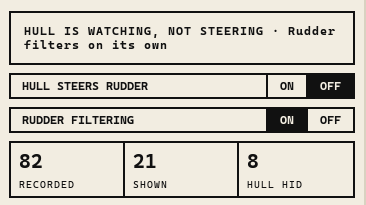
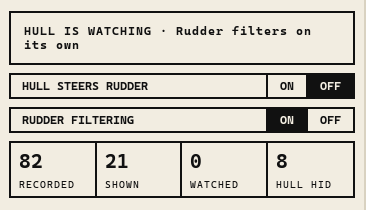
Plain wording: say what things are, without 'X, not Y' contrasts, in the README, guide, app, panel, prompts and comments

diff --git a/hull/stages/culture.py b/hull/stages/culture.py
@@ -4,7 +4,7 @@ culture graph (hull/graph.py). A video is tagged once; after that it's answered 
 Gemma runs in Ollama with the title, channel, description, Rudder's thumbnail text and the thumbnail itself, plus
 the known topics nearest the video, so it reuses the graph's names. A video you watch is tagged again once enough of
 it has been said (`heard_chars` of its captions): its title and what's said in it, so watched videos are mapped by
-their content, not just how they're sold (table watched). Videos not tagged within `budget` seconds are
+their content (table watched). Videos not tagged within `budget` seconds are
 hidden for now (strict) and keep being tagged; Rudder asks again the next time YouTube sends them.
 
 Then your map decides (hull/graph.py). Each goal covers an area of the map: the goal's topics, topics that mean the
@@ -49,7 +49,7 @@ GOAL_SCHEMA = {"type": "object", "properties": {
     "focus": {"type": "array", "items": {"type": "string"}, "maxItems": 30},
     "block": {"type": "array", "items": {"type": "string"}, "maxItems": 30}}, "required": ["focus", "block"]}
 GOAL = """A viewer says what they want YouTube for. Turn it into the topics of their filter, the way someone who knows the subject well would.
-- focus: only if they want nothing but certain subjects (they say "only", "just", "nothing else"); otherwise empty, since liking something is not wanting only it. When they do, list each subject broadly: the field itself, its main kinds and parts, the communities and people around it, and every topic on their map below that belongs to it. For someone who only wants cooking, that means cooking, recipes, baking, specific dishes and cuisines, chefs and cooking channels, food science.
+- focus: only if they want nothing but certain subjects (they say "only", "just", "nothing else"); otherwise leave it empty. When they do, list each subject broadly: the field itself, its main kinds and parts, the communities and people around it, and every topic on their map below that belongs to it. For someone who only wants cooking, that means cooking, recipes, baking, specific dishes and cuisines, chefs and cooking channels, food science.
 - block: subjects they never want to see, each listed just as broadly.
 Short lowercase noun phrases. Use their map's topics word for word where they fit, and add the subject's other important parts even if their map doesn't have them yet.
 
@@ -57,7 +57,7 @@ Their map (most seen first): {known}
 
 The viewer: {text}"""
 PROMPT = """Name this YouTube video's topics: 3 to 6 short lowercase noun phrases, from the most specific (the exact subject: the game, show, person, technique or idea) up to its broad field (such as "video games", "statistics", "cooking", "music").
-Name subjects, not formats: in "100 days in Los Santos" the subject is the game Los Santos belongs to (grand theft auto v), not "100 days challenge". Name the franchise or field a place, character or term belongs to. Use the thumbnail too.
+Name the subject itself: in "100 days in Los Santos" the subject is grand theft auto v, the game Los Santos belongs to. Name the franchise or field a place, character or term belongs to. Use the thumbnail too.
 Topics already on this viewer's map, to reuse word for word when one fits: {known}
 
 Title: {title}

diff --git a/tests/test_hull.py b/tests/test_hull.py
@@ -333,7 +333,7 @@ class TestHullWithRudder(unittest.IsolatedAsyncioTestCase):
             await until(lambda: not hull.status["steering"])
             self.assertNotIn("hull-rules", [s.id for s in fake.stages])
             self.assertEqual((hull.status["rudder"], Settings(tmp).get("steering")), (True, False))
-            await until(lambda: "not steering" in fake.panels[-1].blocks[0].text)
+            await until(lambda: "watching" in fake.panels[-1].blocks[0].text)
             hull.set_filtering(False)  # Rudder's own switch
             await until(lambda: not hull.status["filtering"])
             self.assertFalse(fake.enabled)
@@ -407,7 +407,7 @@ class TestCaptions(unittest.TestCase):
             self.assertIsNone(c.heard("b", "today we update our beliefs"))  # not enough said yet
             c.heard("b", "with the likelihood and a prior").result()
             self.assertIn("update our beliefs with the likelihood", c.ollama.heard_prompt)
-            self.assertEqual(c.graph.topics_of("b"), ["bayes theorem", "statistics", "probability theory"])  # added, not doubled
+            self.assertEqual(c.graph.topics_of("b"), ["bayes theorem", "statistics", "probability theory"])  # each once
             self.assertEqual(dict(c.graph.stats()["top"])["bayes theorem"], 1)
             n = c.ollama.calls
             c.heard("b", "more and more words, and many more of them")

diff --git a/hull/app.py b/hull/app.py
@@ -130,7 +130,7 @@ class Banner(QLabel):
         elif s["steering"]:
             text, bg, fg = "HULL IS STEERING RUDDER · your goal and culture map decide what YouTube shows", BLUE, INK
         else:
-            text, bg, fg = "HULL IS WATCHING, NOT STEERING · Rudder filters on its own", PAPER, INK
+            text, bg, fg = "HULL IS WATCHING · Rudder filters on its own", PAPER, INK
         if s.get("warming"):
             text += " · loading Gemma…"
         self.setText(text)
@@ -436,7 +436,7 @@ class Window(QMainWindow):
         self.steer.show_state(s["steering"] if connected else self.hull.steering, connected)
         self.filtering.show_state(s["filtering"], connected)
         self.tray.setIcon(QIcon(str(ASSETS / ("hull-icon.svg" if s["steering"] else "hull-icon-off.svg"))))
-        self.tray.setToolTip("Hull: steering Rudder" if s["steering"] else "Hull: not steering")
+        self.tray.setToolTip("Hull: steering Rudder" if s["steering"] else "Hull: watching while Rudder filters on its own")
         if hasattr(self, "steer_action"):  # the tray menu's switch
             self.steer_action.setChecked(self.hull.steering)
 

diff --git a/hull/link.py b/hull/link.py
@@ -152,7 +152,7 @@ class Hull:
         keep = [s for s in p.stages if not ours(s)]
         if len(keep) != len(p.stages):
             p = await rudder.SetPipeline(pb.Pipeline(stages=keep), timeout=timeout)  # none left: Rudder's default
-            log.info("not steering: %s", " → ".join(s.id for s in p.stages))
+            log.info("Rudder filters on its own: %s", " → ".join(s.id for s in p.stages))
 
     async def leave(self):
         """take Hull's stages and panel back out of Rudder (on exit)"""
@@ -220,7 +220,7 @@ class Hull:
     def panel_message(self):
         s = self.store.stats()
         goal = self.settings.get("goal") if self.settings else None
-        head = ("Hull is steering Rudder" if self.steering else "Hull is running but not steering: Rudder filters on its own") + \
+        head = ("Hull is steering Rudder" if self.steering else "Hull is watching: Rudder filters on its own") + \
                (f". Goal: {goal['text']}" if goal and goal.get("text") and self.steering else "")
         return pb.Panel(id=APP, title="Hull", blocks=[
             pb.Block(text=head),

diff --git a/hull/lsh.py b/hull/lsh.py
@@ -2,10 +2,10 @@
 get the same key in at least one band, so only those few are compared exactly.
 
   - Titles: MinHash over a title's words. 16 bands of 4 hashes catch title pairs whose words overlap by about half
-    or more; the exact check then asks for `title_jaccard` (default 0.8): a re-upload, not the next episode
-    ("ep 12" vs "ep 13" share 3 of 5 words, 0.6).
+    or more; the exact check then asks for `title_jaccard` (default 0.8): a re-upload. The next episode
+    ("ep 12" vs "ep 13") shares 3 of 5 words, 0.6, and stays a video of its own.
   - Thumbnails: dHash, 256 bits of light-to-dark steps in a 17x16 grey copy, unchanged by resizing and
-    recompression; fine enough that a channel's template with another face or text isn't a copy. 16 bands of 16
+    recompression; fine enough to tell a channel's template with another face or text apart from a copy. 16 bands of 16
     bits: two hashes within 15 bits always share a band; the exact check asks for `thumb_bits` (default 12).
 """
 import hashlib, io, re

diff --git a/hull/graph.py b/hull/graph.py
@@ -101,7 +101,7 @@ class Graph:
 
     def area(self, anchor_vecs, at=0.85, link=0.5, hops=1):
         """the part of the map around some topics: the topics themselves and their near-synonyms (cosine ≥ at: "비디오
-        게임" for "video games", not "video media", which only shares a word), then, up to
+        게임" for "video games"), then, up to
         `hops` edges out, every neighbour most of whose videos (share ≥ link) are already inside. A topic that mostly
         lives there joins (roblox, frostpunk around video games); a big separate subject that touched it once doesn't
         (music, through a game's soundtrack), so the area can't leak across the map."""

diff --git a/hull/video.py b/hull/video.py
@@ -35,4 +35,4 @@ class Result:
 
     def __post_init__(self):
         if self.decision not in DECISIONS:
-            raise ValueError(f"decision must be one of {DECISIONS}, not {self.decision!r}")
+            raise ValueError(f"decision {self.decision!r} isn't one of {DECISIONS}")

diff --git a/docs/how-it-works.md b/docs/how-it-works.md
@@ -8,7 +8,7 @@ Rudder, a Firefox extension, reads every recommendation before it's shown and ru
 
 - **No repeats.** A video Rudder has put on screen once never comes back, and neither does a re-upload of it.
 - **A culture graph.** Gemma names every video's topics, from its exact subject up to its field. Topics become nodes, and topics that share videos get linked.
-- **Block and focus by meaning, not keywords.** `block = ["grand theft auto"]` also hides Los Santos and Michael De Santa. `focus = ["bayesian statistics"]` turns YouTube into a study feed: only videos near that topic in the graph get through. Gemma settles the borderline cases using the graph.
+- **Block and focus by meaning.** `block = ["grand theft auto"]` also hides Los Santos and Michael De Santa. `focus = ["bayesian statistics"]` turns YouTube into a study feed: only videos near that topic in the graph get through. Gemma settles the borderline cases using the graph.
 
 ```
 YouTube ─▶ Rudder (Firefox) ─▶ Rudder's bridge (127.0.0.1:7833) ◀─▶ Hull ─▶ Ollama (Gemma, on your GPU)
@@ -41,7 +41,7 @@ Hull opens its window, loads the models, joins Rudder's pipeline right after Rud
 
 - **The banner** says what Hull is doing, first thing:
   - blue, *Hull is steering Rudder*: Hull's stages are in Rudder's pipeline;
-  - paper, *Watching, not steering*: Rudder filters on its own, and Hull keeps recording;
+  - paper, *Hull is watching*: Rudder filters on its own, and Hull keeps recording;
   - striped, *Rudder isn't running*: start Rudder's bridge and Firefox.
 - **Two switches.**
   - *Hull steers Rudder* puts Hull's stages into Rudder's pipeline or takes them out.
@@ -94,7 +94,7 @@ Editing a stage's config, or applying a goal, makes Rudder judge again the video
 
 **Repeats.** Rudder reports every video it puts on screen (`WatchShown`). Hull adds each id to a Bloom filter: about 1.8 MB holds a million videos, with a 0.1% chance of calling a new video a repeat. That is the strict side to err on. The filter can't catch a re-upload under a new id, so shown videos' titles and thumbnails also go into two locality-sensitive hash indexes:
 - **Titles:** MinHash over the title's words. A copy shares at least 80% of its words, so "ep 12" and "ep 13" are different videos.
-- **Thumbnails:** a 256-bit dHash. A copy differs by at most 12 bits, which survives resizing and recompression but not a new face on the same template.
+- **Thumbnails:** a 256-bit dHash. A copy differs by at most 12 bits, which survives resizing and recompression; a new face on the same template counts as a different thumbnail.
 
 Hull's stages ask Rudder to ask again every time YouTube sends a video (`remember: false`). Without that, Rudder would reuse Hull's first answer forever and a repeat would never be caught.
 
@@ -105,17 +105,17 @@ Hull's stages ask Rudder to ask again every time YouTube sends a video (`remembe
 
 It names 3 to 6 topics, from the subject up to the field. For example, "I spent 100 days in Los Santos" becomes *los santos → grand theft auto v → video games*. Every name is embedded with `embeddinggemma`, and names within 0.94 cosine of a known topic merge into it ("gta" is "grand theft auto"). A video is tagged once. A batch of 12 takes about 4 seconds, well inside Rudder's 25-second limit. Videos not tagged in time stay hidden and are asked about again the next time they come.
 
-**What you watch.** Rudder asks YouTube's player for English captions on every video you watch and streams each line to Hull as you reach it (`WatchCaptions`). Hull keeps them (table `captions`). Once about 600 characters have been said, Gemma tags the video again from its title and what's said in it, and those topics join your map. A watched video is mapped by its content, not just how it's sold, and the topic details mark it ▶. Captions stay hidden on the video unless you press CC or C.
+**What you watch.** Rudder asks YouTube's player for English captions on every video you watch and streams each line to Hull as you reach it (`WatchCaptions`). Hull keeps them (table `captions`). Once about 600 characters have been said, Gemma tags the video again from its title and what's said in it, and those topics join your map. A watched video is mapped by its content, and the topic details mark it ▶. Captions stay hidden on the video unless you press CC or C.
 
 **Block and focus: areas of your map.** A goal covers an area of your culture map:
-1. its topics, and near-synonyms of them (cosine ≥ `area_seed`, 0.85: "비디오 게임" for "video games", not "video media");
+1. its topics, and near-synonyms of them (cosine ≥ `area_seed`, 0.85: "비디오 게임" for "video games");
 2. then, one edge out (`focus_hops` / `block_hops`), each neighbour where at least half its videos (`focus_link` / `block_link`) are already in the area.
 
-A topic that mostly lives around your goal joins it: around "video games", Roblox, Frostpunk and League of Legends join. A big separate subject that touched it once doesn't: music only shares a game soundtrack, 1 of its 25 videos. A video with a topic in the block area is hidden. With a focus, a video with a topic in the focus area is shown.
+A topic that mostly lives around your goal joins it: around "video games", Roblox, Frostpunk and League of Legends join. A big separate subject that touched it once stays out: music only shares a game soundtrack, 1 of its 25 videos. A video with a topic in the block area is hidden. With a focus, a video with a topic in the focus area is shown.
 
-The goal box makes the area wide from the start: Gemma sees your whole map and lists the subject the way someone who knows it would, with the field, its parts and the topics on your map that belong. A gamer's goal becomes video games, gaming culture, esports, walkthroughs, PC gaming and so on, not just "video games".
+The goal box makes the area wide from the start: Gemma sees your whole map and lists the subject the way someone who knows it would, with the field, its parts and the topics on your map that belong. A gamer's goal becomes video games, gaming culture, esports, walkthroughs, PC gaming and so on.
 
-Topics outside every area (new ones, not linked yet) are judged by meaning. How near a video is to a topic is the best of its topics' relatedness to it. Relatedness is the larger of:
+Topics outside every area (new ones without links yet) are judged by meaning. How near a video is to a topic is the best of its topics' relatedness to it. Relatedness is the larger of:
 - how alike the two topics' meanings are;
 - the same, through a neighbour: the share of this topic's videos that are also on a neighbour topic, times how alike that neighbour is.
 

diff --git a/README.md b/README.md
@@ -10,11 +10,11 @@ Solution: Hull is the ship under the Rudder. It runs on your own computer, and n
 
 <p align="center"><img src="docs/goal.png" alt="Your goal in plain words, turned into topics by Gemma" width="366"></p>
 
-Then you tell Hull what you want, in your own words: "I'm learning Bayesian statistics. Nothing else." Gemma turns that into places on your map, and you can change them before you press Apply. Hull lets through the videos near those places and hides the rest, even the ones you never thought to block. And it never shows you the same video twice, not even a copy uploaded under a new name.
+Then you tell Hull what you want, in your own words: "I'm learning Bayesian statistics. Nothing else." Gemma turns that into places on your map, and you can change them before you press Apply. Hull lets through the videos near those places and hides the rest, even the ones you never thought to block. And it shows you each video only once, copies uploaded under a new name included.
 
-Hull also listens. When you watch a video, Rudder quietly reads its English subtitles, without showing them unless you press CC. Gemma learns what the video really talks about, not just what its title promises, so your map is built from what you actually watch.
+Hull also listens. When you watch a video, Rudder quietly reads its English subtitles, without showing them unless you press CC. Gemma learns what the video really talks about, so your map is built from what you actually watch.
 
-<p align="center"><img src="docs/steering.png" alt="Hull is steering Rudder" width="366"> <img src="docs/not-steering.png" alt="Hull is watching, not steering" width="366"></p>
+<p align="center"><img src="docs/steering.png" alt="Hull is steering Rudder" width="366"> <img src="docs/not-steering.png" alt="Hull is watching while Rudder filters on its own" width="366"></p>
 
 You are always the captain. One switch puts Hull in charge of Rudder, and one switch turns Rudder off. Nothing on your screen jumps when you flip them; the change starts with the next videos. Hull says in big letters whether it is steering, and Rudder's own popup shows Hull's numbers too. Close the window and Hull keeps sailing from the tray.
 

diff --git a/AGENTS.md b/AGENTS.md
@@ -53,10 +53,10 @@ python -m unittest             # tests, no Firefox or Ollama needed
 
 - **Strict, like Rudder.** Anything that fails, can't answer in time or isn't tagged yet hides. Never add a path that passes or shows a video because something went wrong.
 - **Leave cleanly.** On exit Hull removes its stages from Rudder's pipeline; keep that working.
-- **Always say whether Hull is steering.** The app's banner and tray icon, and the panel in Rudder's popup, follow Rudder's real pipeline (`status["steering"]`), not what was asked for.
+- **Always say whether Hull is steering.** The app's banner and tray icon, and the panel in Rudder's popup, follow Rudder's real pipeline (`status["steering"]`).
 - **Look like Rudder.** Paper `#f2ede1`, ink `#111`, Rudder blue `#5BB8F0`, red `#E5484D`, square 2px borders, monospace, uppercase headings.
 - **The app never blocks on Gemma or Rudder.** Anything that calls Ollama or the API runs off the window's thread.
-- **Rudder's API is the contract.** Talk to Rudder only through it. When Rudder's `rudder.proto` changes, run `scripts/sync_proto.py` rather than editing `hull/rudder/`.
+- **Rudder's API is the contract.** Talk to Rudder only through it. When Rudder's `rudder.proto` changes, run `scripts/sync_proto.py` to refresh `hull/rudder/`.
 - **No requests to YouTube.** Use what Rudder sends; Hull doesn't fetch from YouTube either.
 - **The GPU is allowed** (Gemma in Ollama), but ask the user before running anything on it during development: they may be gaming.
 - **Comments:** short and plain, saying why. A deliberate shortcut gets a `ponytail:` comment naming its limit.
